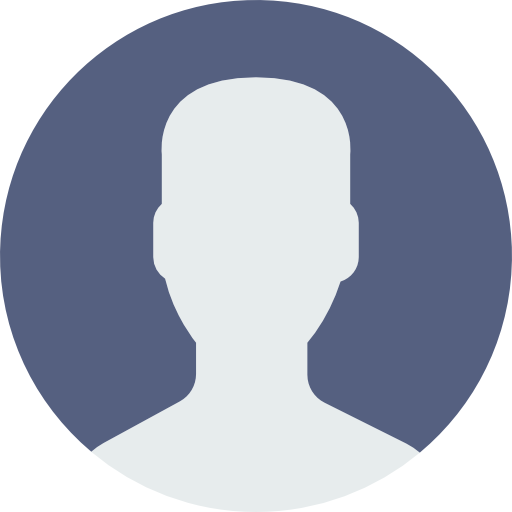
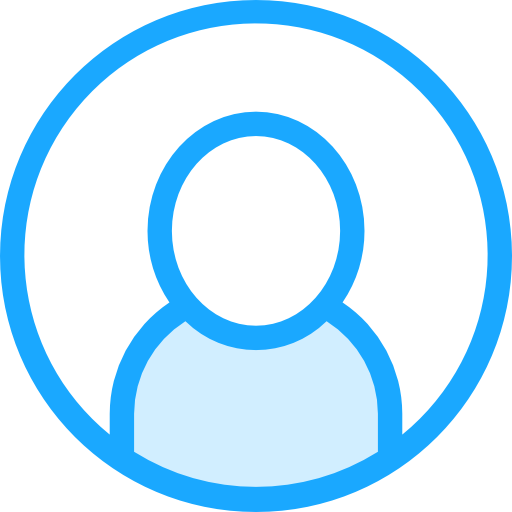
add user img

diff --git a/src/main/resources/templates/user/profile.html b/src/main/resources/templates/user/profile.html
@@ -3,9 +3,19 @@
 <link rel="stylesheet" href="https://cdnjs.cloudflare.com/ajax/libs/font-awesome/4.7.0/css/font-awesome.min.css">
 <link rel="stylesheet" href="/css/profile-css.css">
 
+<style type="text/css">
+
+.img {
+
+margin-top: 15px;
+
+
+}
+
+</style>
 {{#user}}
 	<div class="card">
-	  <img src="/img/user_1.png" style="width:50%" >
+	  <img src="/img/user_1.png" style="width:90px" class="img">
 	  <br>
 	  <h3><b>{{name}}</b></h3>
 	  <p class="title">{{email}}</p>
@@ -17,7 +27,7 @@
 	    <a href="https://github.com/" target="_blank"><i class="fa fa-github"></i></a>
 	    <a href="https://medium.com/" target="_blank"><i class="fa fa-medium"></i></a>
 	  </div>
-	  <p><a href="/users/profileForm/{{id}}" class="button">Profile</a></p>
+	  <p><a href="/users/profileForm/{{id}}" class="button">Profile editor</a></p>
 	</div>
 {{/user}}
 {{> include/footer}}

diff --git a/src/main/resources/static/css/profile-css.css b/src/main/resources/static/css/profile-css.css
@@ -7,7 +7,7 @@
   text-align: center;
   font-family: arial;
   margin-top: 150px;
-  margin-left:10%;
+  margin-left:22%;
 }
 
 .title {
